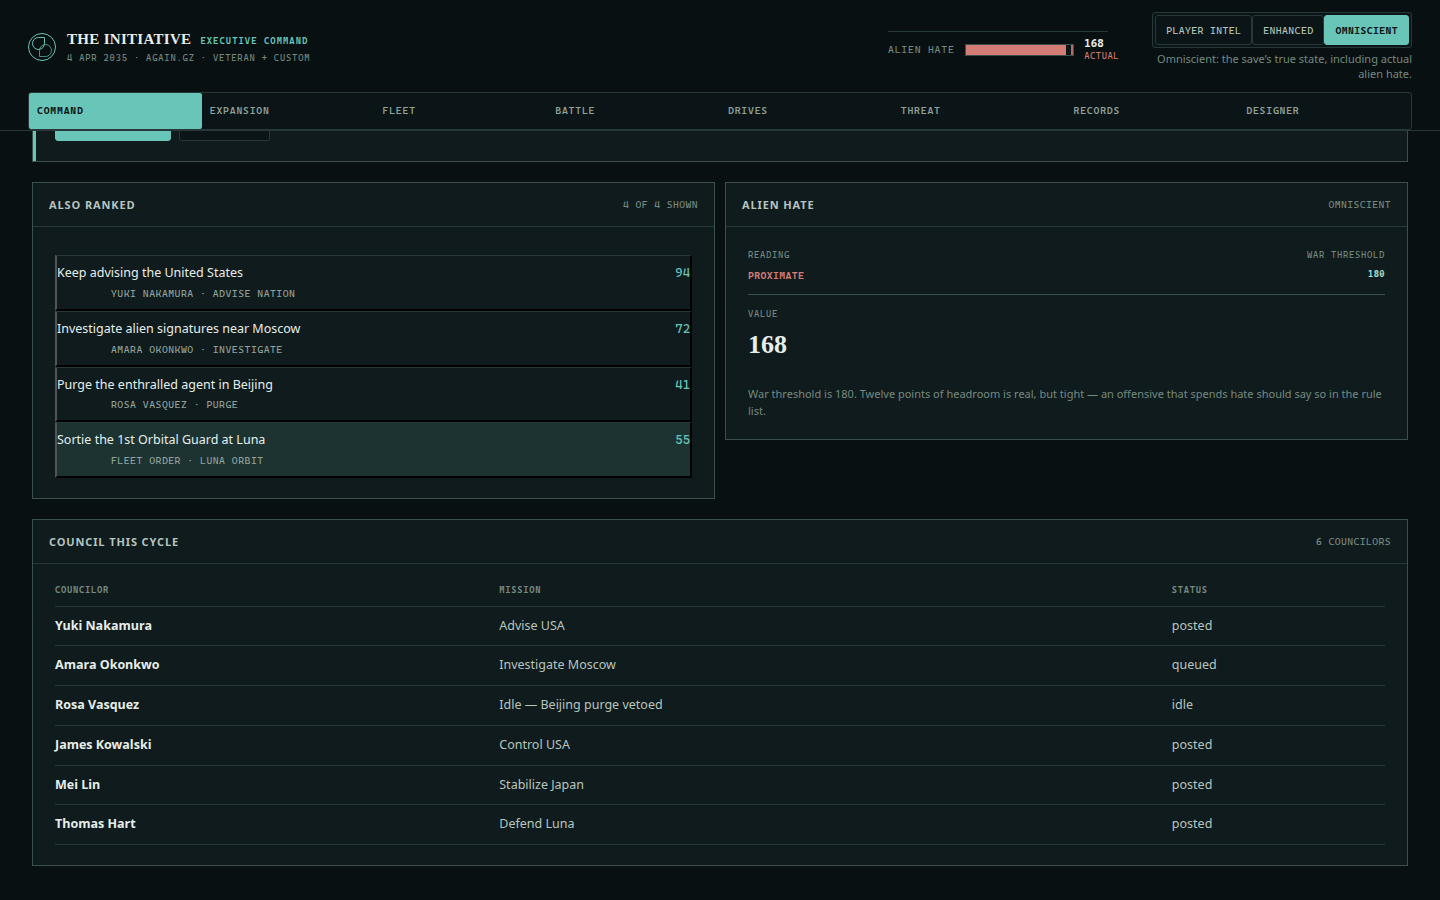
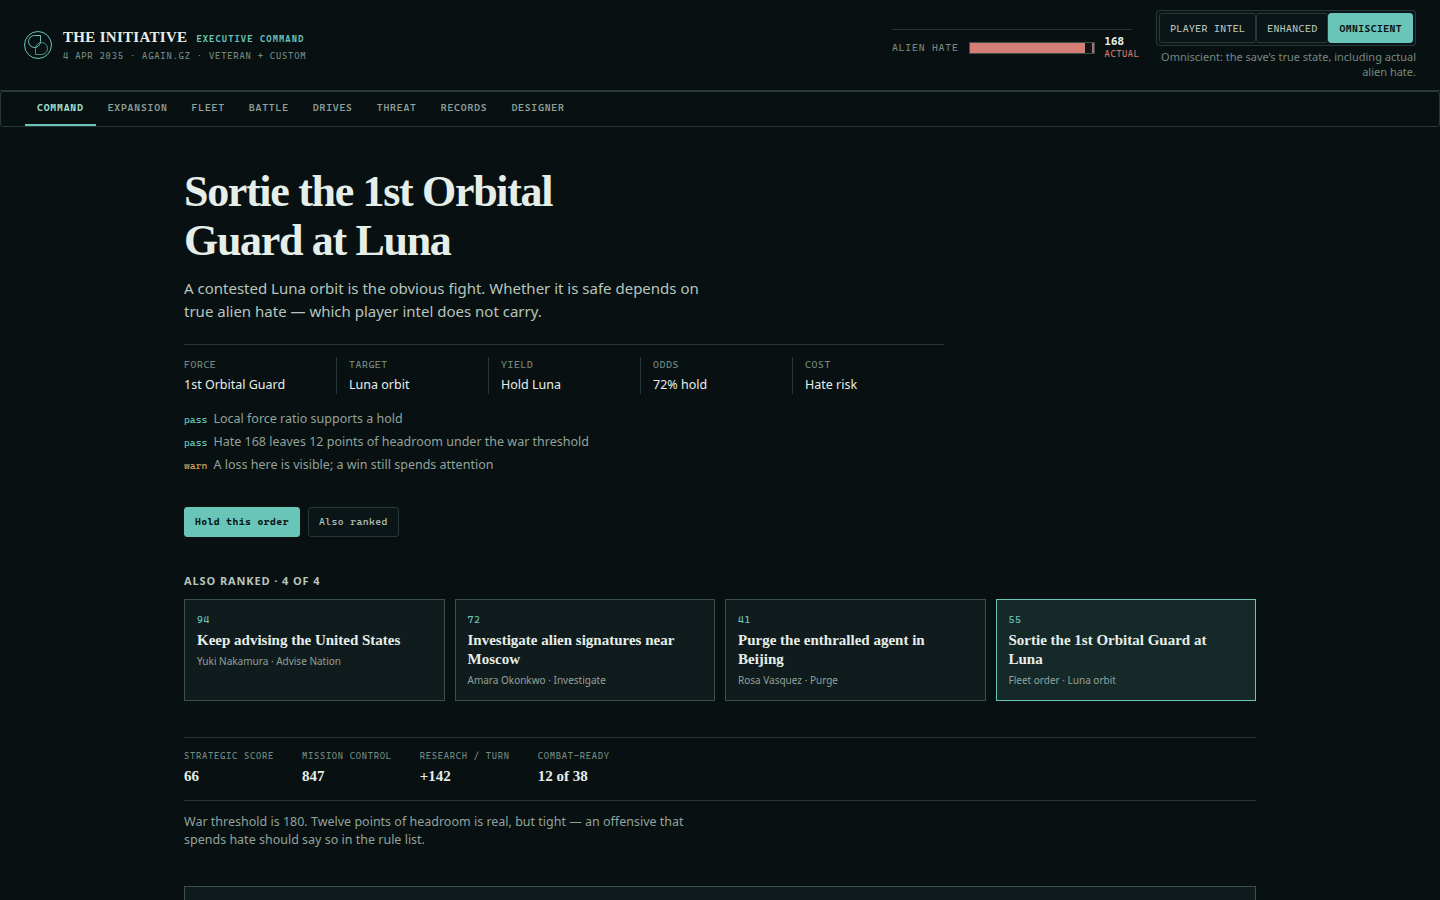
Refresh briefing POC screenshots and fix the facts row
Five mission facts now sit on one row instead of wrapping cost under councilor. Recapture desktop, scrolled, omniscient Luna, and phone shots.

diff --git a/public/v2/poc-design.html b/public/v2/poc-design.html
@@ -111,8 +111,16 @@
       margin-top: var(--space-xl);
     }
     .poc-brief .priority-ops-meta {
-      max-width: 720px;
+      display: flex;
+      flex-wrap: wrap;
+      gap: var(--space-xl) 0;
+      max-width: 760px;
       margin-top: var(--space-3xl);
+      grid-template-columns: none;
+    }
+    .poc-brief .priority-ops-meta > div {
+      flex: 1 1 140px;
+      min-width: 0;
     }
     .poc-brief .directive-board-reasons {
       margin: var(--space-2xl) 0 0;
@@ -257,7 +265,7 @@
       .poc-views { overflow-x: auto; }
       .poc-brief { padding-top: 28px; }
       .poc-brief .holo-core-title { font-size: 32px; max-width: none; }
-      .poc-brief .priority-ops-meta { grid-template-columns: repeat(2, minmax(0, 1fr)); }
+      .poc-masthead .init-mode-caption { display: none; }
       .poc-orders { grid-template-columns: 1fr 1fr; }
     }
     @media (max-width: 560px) {
